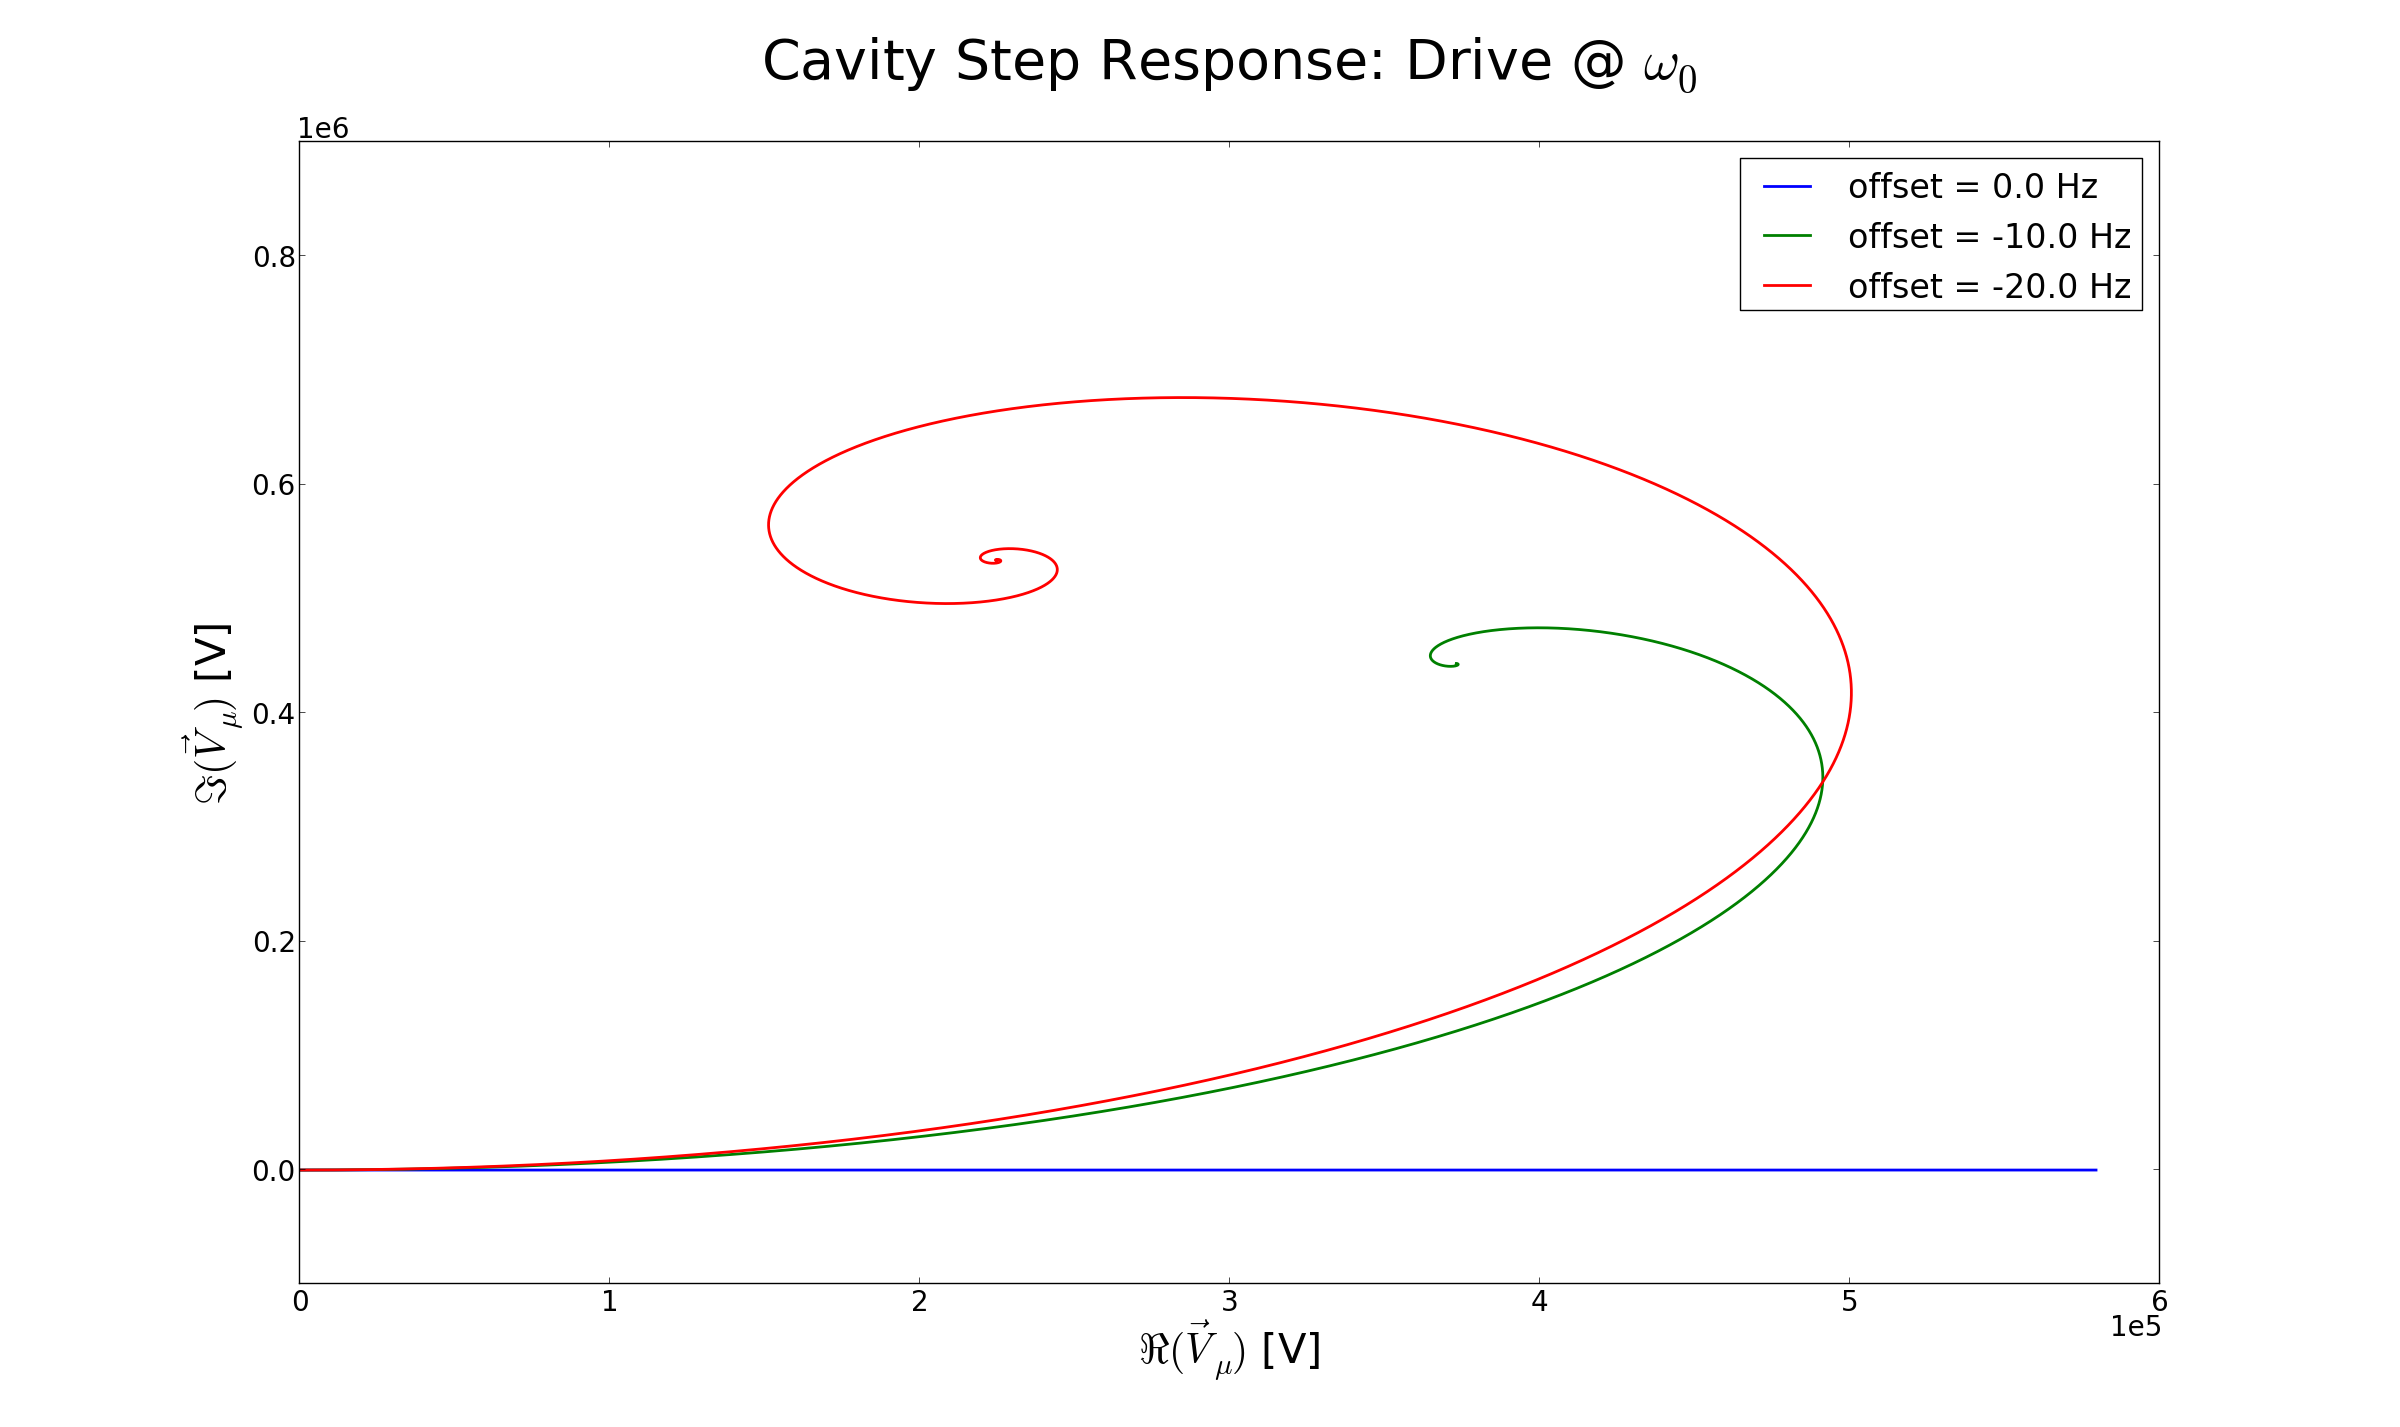
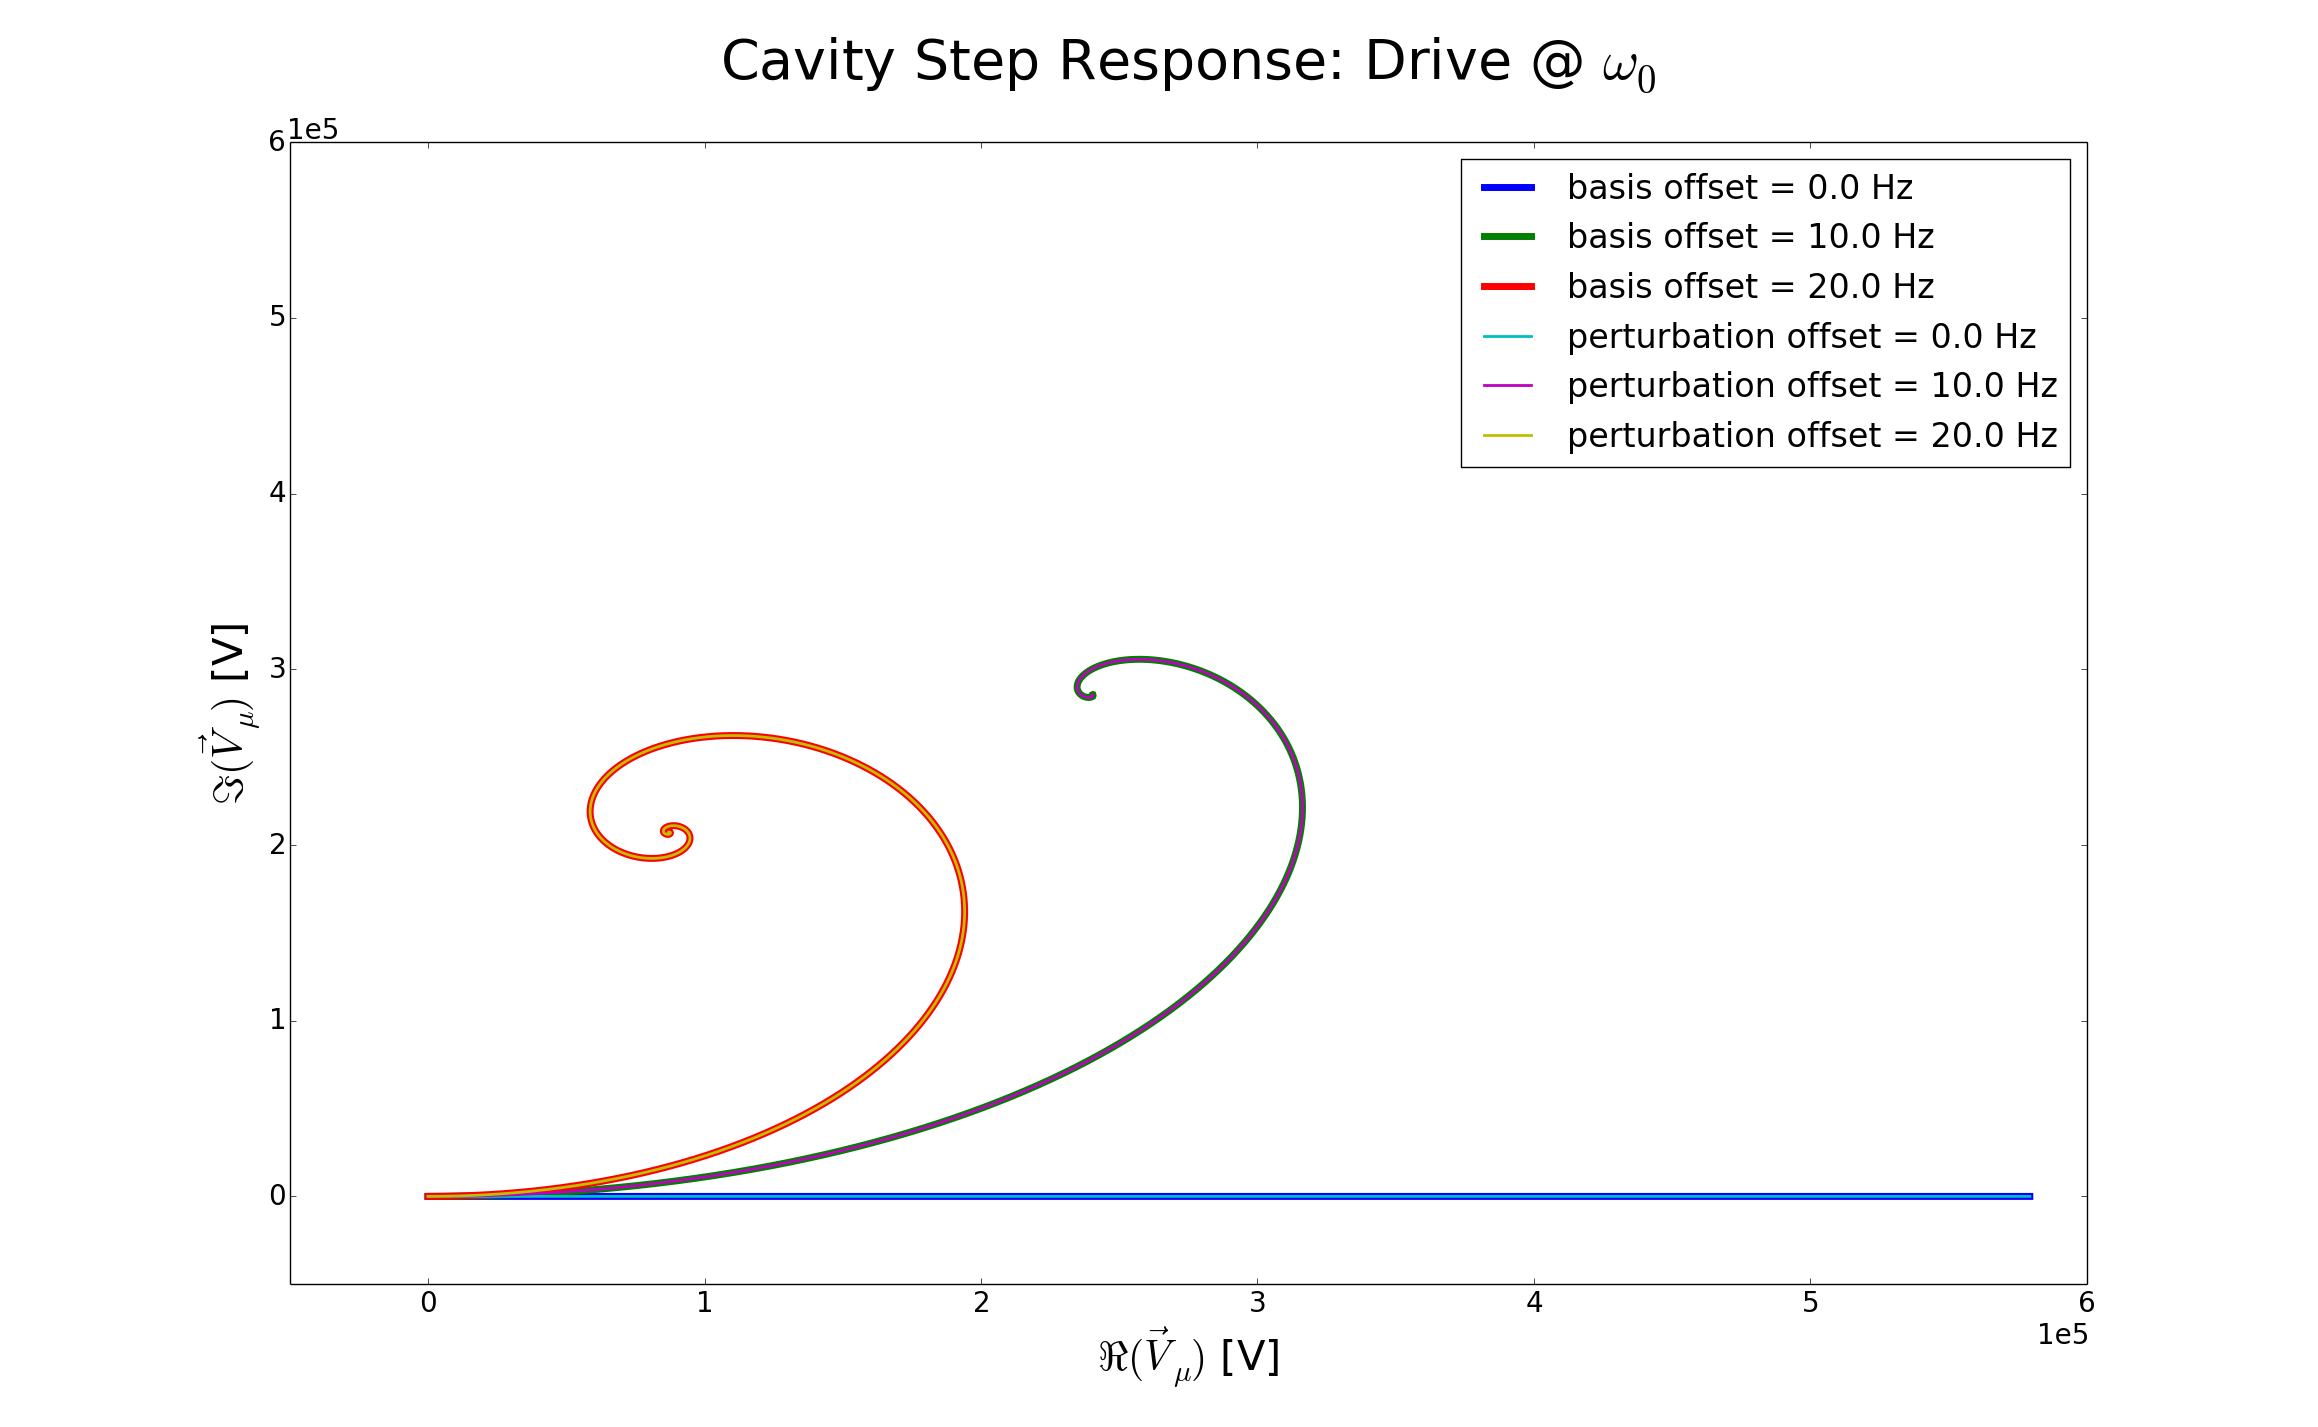
Consolidated basis and perturbation frequency offsets in Electrical Eigenmodes
Both mode's basis and perturbation frequency offsets are part of the
frequency shift before and after the LPF routine.
The frequency unit test was modified exercise both basis and perturbation offsets.

diff --git a/source/cavity_test.py b/source/cavity_test.py
@@ -196,7 +196,7 @@ def run_cavity_freq_test(Tmax, test_file, delta_omega=0.0):
     curve_fit = cavity_curve_fit(Tstep, drive_in, cav_v, beam_charge)
 
     # Measure mode's offset frequency
-    foffset_meas = -np.imag(curve_fit[2])/(Tstep*2.0*np.pi)
+    foffset_meas = np.imag(curve_fit[2])/(Tstep*2.0*np.pi)
 
     # Return results
     # drive_step and beam_step contain: [a, b, c, cav_v_meas, bw_meas, cav_v]
@@ -335,7 +335,9 @@ def cavity_test_freqs():
     fit_pass = True
     fit_threshold = 1e-3
 
-    print "\n**** Test detuning...\n"
+    print "\n**** Test detuning..."
+    print "******* Iterate over basis frequency offset...\n"
+
     # Iterate over simulation tests
     for idx, test_file in enumerate(test_files):
         # Run numerical simulation
@@ -356,24 +358,57 @@ def cavity_test_freqs():
         else: this_fit_pass = False
         fit_pass = fit_pass & this_fit_pass
 
+    # Now exercise the dynamic deturning input
+    # List the detune frequencies to test
+    delta_fs = [0.0,10.0, 20.0]  # [Hz]
+    test_file = test_files[0] # Use test file with no basis frequency offset
+
+    # Empty lists to append simulation results to
+    drive_in_list2 = []
+    cav_v_list2 = []
+    mode_dicts2 = []
+
+    print "\n******* Iterate over frequency perturbation (basis offset = 0)...\n"
+    # Iterate over detune frequencies
+    for idx, delta_f in enumerate(delta_fs):
+        # Run numerical simulation
+        trang, cav_v, drive_in, beam_charge, mode_dict, curve_fit, foffset_meas = run_cavity_freq_test(Tmax, test_file, 2.0*np.pi*delta_f)
+        # Store signals
+        drive_in_list2.append(drive_in)
+        cav_v_list2.append(cav_v)
+        mode_dicts2.append(mode_dict)
+
+        print "Mode "+str(idx+1)+":"
+        print '  Fit RMS error is {:.2e}'.format(fit_error)
+        print '  Offset: Measured = %.2f Hz, Set to = %.2f Hz' %(foffset_meas, delta_f)
+
+        # Compare error to threshold and establish PASS/FAIL
+        if fit_error < fit_threshold: this_fit_pass = True
+        else: this_fit_pass = False
+        fit_pass = fit_pass & this_fit_pass
 
     # Plot title    
     plt.title("Cavity Step Response: Drive @ "+r'$\omega_0$', fontsize=40, y=1.05)
 
     # Iterate over modes and plot amplitude
+    # # First, basis frequency offset tests
     for idx, mode_dict in enumerate(mode_dicts):
-        plt.plot(np.real(cav_v_list[idx]),np.imag(cav_v_list[idx]),'-', label= 'offset = ' + str(mode_dict['foffset']) + ' Hz', linewidth=2)
-    
+        plt.plot(np.real(cav_v_list[idx]),np.imag(cav_v_list[idx]),'-', label= 'basis offset = ' + str(mode_dict['foffset']) + ' Hz', linewidth=5)
+
+    # # Then perturbation frequency detuning tests
+    for idx, mode_dict in enumerate(mode_dicts):
+        plt.plot(np.real(cav_v_list2[idx]),np.imag(cav_v_list2[idx]),'-', label= 'perturbation offset = ' + str(mode_dict['foffset']) + ' Hz', linewidth=2)     
+
     # Format plot
     plt.ticklabel_format(style='sci', axis='y', scilimits=(1,0))
     plt.ticklabel_format(style='sci', axis='x', scilimits=(1,0))
-    plt.ylim([-1e5,9e5])
-    plt.axis('equal')
+    plt.ylim([-0.5e5,6e5])
+    plt.xlim([-0.5e5,6e5])
     plt.xlabel(r'$\Re ( \vec V_{\mu})$ [V]', fontsize=30)
     plt.ylabel(r'$\Im (\vec V_{\mu})$ [V]', fontsize=30)
     plt.rc('font',**{'size':20})
     plt.legend(loc='upper right')
-
+    
     # Show figure
     plt.show()
 
@@ -382,90 +417,7 @@ def cavity_test_freqs():
         result = 'PASS' 
     else:
         result = 'FAIL'
-    print "\n*** Detuning test >>> " + result 
-
-    # Return PASS/FAIL boolean
-    return fit_pass
-
-def cavity_test_noise():
-
-    # Configuration file for specific test configuration
-    # (to be appended to standard test cavity configuration)
-    test_file = "source/configfiles/unit_tests/cavity_test_freqs1.json"
-
-    # Total simulation time 
-    Tmax = 1
-
-    # Empty lists to append simulation results to
-    drive_in_list = []
-    cav_v_list = []
-    mode_dicts = []
-
-    # Pass/FAIL boolean for curve fits
-    # True = curve fit RMS error are under threshold
-    fit_pass = True
-    fit_threshold = 1e-3
-
-    print "\n**** Test Noise...\n"
-    
-    # Try different detuning frequencies
-    # delta_fs = [0, 10, 20]
-    delta_fs = np.arange(0,6,2)
-
-    
-    # Iterate over simulation tests
-    for idx, delta_f in enumerate(delta_fs):
-        # Run numerical simulation
-        trang, cav_v, drive_in, beam_charge, mode_dict, curve_fit, foffset_meas = run_cavity_freq_test(Tmax, test_file, 2.0*np.pi*delta_f)
-    
-        # Store signals
-        drive_in_list.append(drive_in)
-        cav_v_list.append(cav_v)
-        mode_dicts.append(mode_dict)
-    
-        # Calculate error RMS on curve fit
-        fit_error = linalg.norm(np.abs(curve_fit[5])-np.abs(curve_fit[3]))/linalg.norm(np.abs(curve_fit[5]))
-        print "Test "+str(idx+1)+":"
-        print '  Fit RMS error is {:.2e}'.format(fit_error)
-        print '  Offset: Measured = %.2f Hz, Set to = %.2f Hz' %(foffset_meas, mode_dict['foffset'])
-    
-        # Compare error to threshold and establish PASS/FAIL
-        if fit_error < fit_threshold: this_fit_pass = True
-        else: this_fit_pass = False
-        fit_pass = fit_pass & this_fit_pass
-    
-
-    # Plot title
-    plt.title("Cavity Step Response: Drive @ "+r'$\omega_0$', fontsize=40, y=1.05)
-
-    # Iterate over modes and plot amplitude
-    for idx, delta_f in enumerate(delta_fs):
-        plt.plot(np.real(cav_v_list[idx]),np.imag(cav_v_list[idx]),'-', label= 'offset = ' + str(delta_f) + ' Hz', linewidth=2)
-    
-    f_circle = np.arange(0,-100,-1)
-    # v_circle =  np.abs(mode_dicts[0]['k_drive'])*1/(1+1j*f_circle)
-    # v_circle =  np.sqrt(np.square(np.abs(mode_dicts[0]['k_drive']))-*np.exp(-1j*f_circle))
-    # plt.plot(np.real(v_circle),np.imag(v_circle), '--')
-
-    # Format plot
-    plt.ticklabel_format(style='sci', axis='y', scilimits=(1,0))
-    plt.ticklabel_format(style='sci', axis='x', scilimits=(1,0))
-    plt.ylim([-1e5,9e5])
-    plt.axis('equal')
-    plt.xlabel(r'$\Re ( \vec V_{\mu})$ [V]', fontsize=30)
-    plt.ylabel(r'$\Im (\vec V_{\mu})$ [V]', fontsize=30)
-    plt.rc('font',**{'size':20})
-    plt.legend(loc='upper right')
-
-    # Show figure
-    plt.show()
-
-    # print PASS/FAIL
-    if (fit_pass):
-        result = 'PASS' 
-    else:
-        result = 'FAIL'
-    print "\n*** Noise test >>> " + result 
+    print "\n*** Detuning tests >>> " + result 
 
     # Return PASS/FAIL boolean
     return fit_pass
@@ -474,9 +426,8 @@ def unit_cavity():
     print "\n**** Test Cavity step response..."
     test_step_pass = cavity_test_step()
     test_freqs_pass = cavity_test_freqs()
-    test_noise_pass = cavity_test_noise()
 
-    return test_step_pass & test_freqs_pass & test_noise_pass
+    return test_step_pass & test_freqs_pass
 
 def perform_tests():
     print "\n****\nTesting Filter..."

diff --git a/source/get_configuration.py b/source/get_configuration.py
@@ -5,8 +5,9 @@ import readjson.parse_simulation as parseSim
 
 def Get_SWIG_Cavity(cavity_test_file, Verbose=True):
 
-    if Verbose: print "\nLoading JSON configuration files ..."
     # Get the Simulation object from the JSON parser
+    if Verbose: print "\nLoading JSON configuration files ..."
+
     file_list =  [
         "source/configfiles/unit_tests/default_accelerator.json",
         "source/configfiles/unit_tests/LCLS-II_accelerator.json",
@@ -28,8 +29,9 @@ def Get_SWIG_Cavity(cavity_test_file, Verbose=True):
 
 def Get_SWIG_RF_Station(rf_station_test_file, Verbose=True):
 
-    if Verbose: print "\nLoading JSON configuration files ..."
     # Get the Simulation object from the JSON parser
+    if Verbose: print "\nLoading JSON configuration files ..."
+
     file_list =  [
         "source/configfiles/unit_tests/default_accelerator.json",
         "source/configfiles/unit_tests/LCLS-II_accelerator.json"]
@@ -47,7 +49,7 @@ def Get_SWIG_RF_Station(rf_station_test_file, Verbose=True):
 
     fund_mode_dict = rf_station_object.cavity.elec_modes[fund_index].Compute_ElecMode(Tstep, rf_phase)
 
-    # Overwrite settings for Set-point from Linac configuration
+    # Overwrite pre-computed settings for Set-point from Linac configuration
     nom_grad = rf_station_object.cavity.nom_grad['value']
     L = rf_station_object.cavity.L['value']
     rf_station_object.cavity.design_voltage['value'] = nom_grad*L
@@ -59,8 +61,9 @@ def Get_SWIG_RF_Station(rf_station_test_file, Verbose=True):
 
 def Get_SWIG_Cryomodule(cryo_test_file, Verbose=True):
 
-    if Verbose: print "\nLoading JSON configuration files ..."
     # Get the Simulation object from the JSON parser
+    if Verbose: print "\nLoading JSON configuration files ..."
+
     file_list =  [
         "source/configfiles/unit_tests/default_accelerator.json",
         "source/configfiles/unit_tests/LCLS-II_accelerator.json"]
@@ -84,17 +87,15 @@ def Get_SWIG_Cryomodule(cryo_test_file, Verbose=True):
         fund_mode_dict = rf_station.cavity.elec_modes[fund_index].Compute_ElecMode(Tstep, rf_phase)
         fund_mode_dicts.append(fund_mode_dict)
 
-    # return cryo, cryo_state, Tstep, fund_mode_dicts, rf_station_pointers, mechMode_pointers
     return cryo_object, Tstep, fund_mode_dicts
 
 def Get_SWIG_Simulation(sim_test_file=None, Verbose=True):
 
-    if Verbose: print "\nLoading JSON configuration files ..."
     # Get the Simulation object from the JSON parser
+    if Verbose: print "\nLoading JSON configuration files ..."
+
     file_list =  [
         "source/configfiles/unit_tests/default_accelerator.json"]
-        # "./doublecompress_test.json"]
-        # "../configfiles/unit_tests/LCLS-II_accelerator.json"]
 
     if sim_test_file:
         file_list.append(sim_test_file)

diff --git a/source/cavity.c b/source/cavity.c
@@ -48,13 +48,17 @@ void ElecMode_Allocate_In(ElecMode *elecMode,
   // Linac nominal angular frequency
   elecMode -> LO_w0 = LO_w0;
 
+  // Mode's resonance frequency (RF frequency + offset)
   double omega_0_mode = LO_w0 + 2*M_PI*foffset;
   // Mode's open-loop bandwidth 
   elecMode -> omega_f = omega_0_mode/(2*Q_L);
+
+  // Mode's baseline frequency offset
+  elecMode -> omega_d_0 = 2*M_PI*foffset;
   
   // Mode's single-pole, low-pass filter allocation
   // Calculate pole (mode's bandwidth)
-  double complex mode_p = -elecMode -> omega_f - I*2*M_PI*foffset;
+  double complex mode_p = -elecMode -> omega_f;
 
   // Append mode to cavity filter
   Filter_Append_Modes(&elecMode->fil, &mode_p, 1, Tstep);
@@ -159,8 +163,10 @@ double complex ElecMode_Step(ElecMode *elecMode,
   // RF drive term
   v_drive = Kg_fwd * elecMode -> k_drive; // Drive term (k_drive = 2*sqrt(Q_drive*(R/Q))
 
-  // Integrate detuning angular frequency to obtain phase
-  d_phase_now = elecMode_state-> d_phase + elecMode_state->delta_omega * elecMode->Tstep;
+  // Integrate mode's offset frequency to obtain phase
+  // Add baseline frequency offset to perturbation (delta_omega) to obtain total frequency offset
+  omega_now = elecMode->omega_d_0 + elecMode_state->delta_omega;
+  d_phase_now = elecMode_state-> d_phase + omega_now * elecMode->Tstep;
   elecMode_state-> d_phase = d_phase_now; // Store phase state
 
   // Calculate mode's driving term (drive + beam)

diff --git a/source/rf_station_test.py b/source/rf_station_test.py
@@ -209,6 +209,7 @@ def unit_saturate():
 #
 # Unit test for SSA
 #
+
 def unit_SSA(showplots=True,TOL=1.0e-14):
 
      # Import JSON parser module
@@ -317,7 +318,6 @@ def unit_RF_Station():
 ######################################
 
 def perform_tests():
-
 
     print "\n****\nTesting Phase_Shift..."
     phase_shift_pass = unit_phase_shift()

diff --git a/source/unit_tests_all.py b/source/unit_tests_all.py
@@ -57,7 +57,6 @@ if __name__ == "__main__":
 
 
     # if ut and utc and utb:
-    # if rf_station_pass and cavity_pass:
     if rf_station_pass & cavity_pass & cryomodule_pass & doublecompress_pass:
         print "ooooo ALL TESTS PASSED ooooo"
     else:

diff --git a/source/cavity.h b/source/cavity.h
@@ -10,7 +10,7 @@
 
 typedef struct str_elecmode{
   double LO_w0;
-  double omega_f;
+  double omega_f, omega_d_0;
 	double complex k_drive, k_beam, k_probe, k_em;
 	double Tstep;
 	Filter fil;
